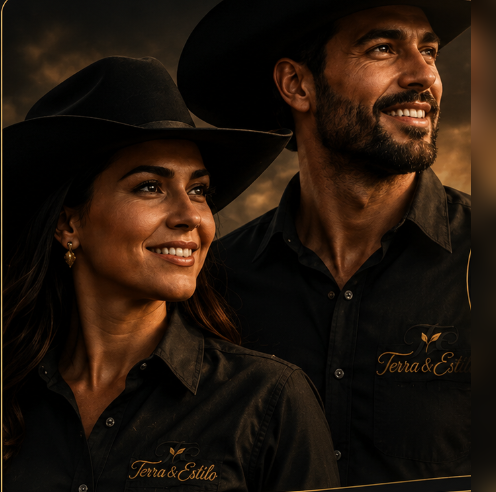
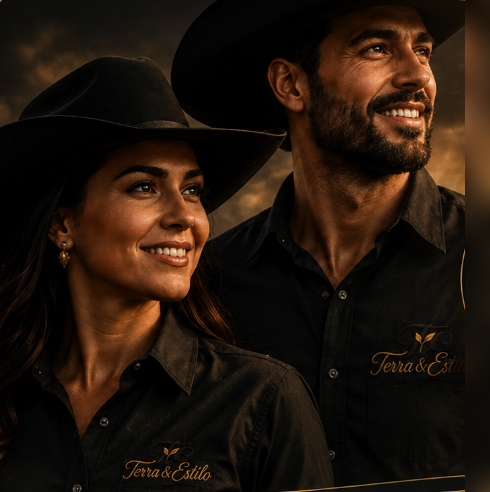
ajuste

diff --git a/src/home.css b/src/home.css
@@ -2456,7 +2456,7 @@ body.nav-drawer-open {
   display: grid;
   grid-template-columns: 52% 48%;
   align-items: stretch;
-  min-height: 640px;
+  min-height: 660px;
   max-height: none;
   overflow: hidden;
   border: none;
@@ -2467,7 +2467,7 @@ body.nav-drawer-open {
 }
 
 .featured-collection--campaign {
-  min-height: 640px;
+  min-height: 660px;
   padding-bottom: 0;
 }
 
@@ -2475,7 +2475,7 @@ body.nav-drawer-open {
   position: relative;
   z-index: 1;
   display: block;
-  min-height: 640px;
+  min-height: 660px;
   height: 100%;
   padding: 0;
   overflow: hidden;
@@ -2492,8 +2492,8 @@ body.nav-drawer-open {
   max-height: none;
   margin: 0;
   object-fit: cover;
-  /* Bias up so man's head/hat stay in frame; keep shirt brand when possible */
-  object-position: 46% 26%;
+  /* Edge-to-edge photo; bias up for man's hat/head, keep shirt brand */
+  object-position: 46% 16%;
   filter: brightness(1.03) contrast(1.02) saturate(0.98);
   transform: none;
   -webkit-mask-image: none;
@@ -2749,7 +2749,7 @@ body.nav-drawer-open {
     height: 100%;
     max-height: none;
     object-fit: cover;
-    object-position: 48% 28%;
+    object-position: 48% 22%;
     transform: none;
     filter: brightness(1.03) contrast(1.02) saturate(0.98);
     -webkit-mask-image: none;

diff --git a/src/data/homeData.js b/src/data/homeData.js
@@ -179,7 +179,7 @@ export const featuredCollection = {
   image: raizHeroAsset,
   imageAlt:
     'Casal com chapéus na campanha Coleção Raízes do Sul — Terra & Estilo.',
-  objectPosition: '46% 26%',
+  objectPosition: '46% 16%',
   marble: BRAND_MARBLE_SRC,
   logo: BRAND_LOGO_CIRCULAR_SRC,
   variant: 'banner',

diff --git a/src/preview.css b/src/preview.css
@@ -957,7 +957,7 @@
   height: 100%;
   max-height: none;
   object-fit: cover;
-  object-position: 48% 28%;
+  object-position: 48% 22%;
   filter: brightness(1.03) contrast(1.02) saturate(0.98);
   transform: none;
 }
